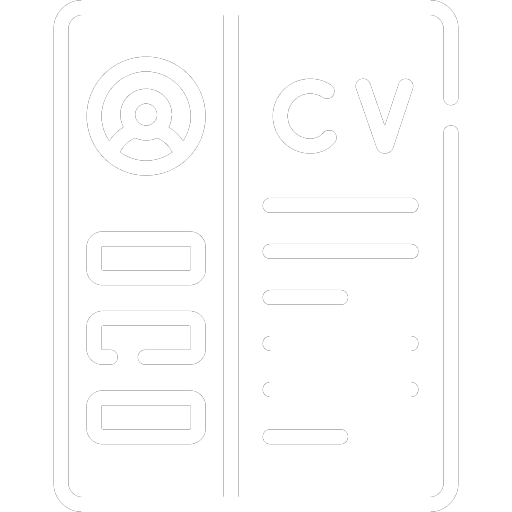
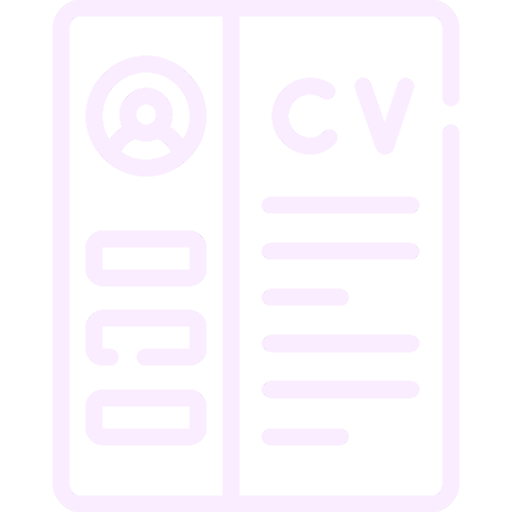
fixes
imgs aangepast. linkedin link toegevoegd bij contact. about me intro leesbaar gemaakt

Changed region(s): [[0.3438, 0.8125, 0.375, 0.8438], [0.3438, 0.6562, 0.375, 0.6875], [0.3438, 0.5, 0.375, 0.5312]]

diff --git a/index.html b/index.html
@@ -4,6 +4,7 @@
     <meta charset="UTF-8" />
     <meta name="viewport" content="width=device-width, initial-scale=1.0" />
     <link rel="stylesheet" href="styles.css" />
+    <link rel="icon" type="image/x-icon" href="Images/favicon.png" />
     <link
       href="https://fonts.googleapis.com/css2?family=Lexend+Mega:wght@100..900&family=Lexend:wght@100..900&display=swap"
       rel="stylesheet"
@@ -12,27 +13,30 @@
       src="https://kit.fontawesome.com/ee0165a535.js"
       crossorigin="anonymous"
     ></script>
-    <title>CO</title>
+    <title>CO cv website</title>
   </head>
   <body>
+    <header>
+      <a href="#skillsH1"> Skills </a>
+      <a href="#portfolioH1">Portfolio </a>
+      <a href="#werkH1"> Werk ervaring </a>
+      <a href="#contactH1">
+        <button id="headerBtn" class="cvBtn">Contact</button>
+      </a>
+    </header>
+
     <div id="aboutme">
       <img id="profilePic" src="Images/profilePic.png" alt="profile picture" />
       <h1 id="name">Chloë Ongolesono</h1>
       <h2 id="title">Software developer</h2>
       <p id="aboutmeP">
-        Hey, ik ben Chloë en ik ben een tweedejaars software development student
-        op het ROC van Flevoland. Voordat ik de opleiding software development
-        deed had ik geen ervaring met programmeren, maar ik heb wel altijd
-        interesse gehad in games en computers. Nu is het inmiddels een jaar
-        later en ben ik heel blij dat ik deze opleiding heb gekozen. Ik vind
-        programmeren heel leuk om te doen. Bugs oplossen en creatief kunnen zijn
-        met de front-end design zijn maar twee van de vele punten dat mij
-        aantrekken. Ik heb al ervaring met Java, Html/Css, Javascript, mySql
-        Database en Php, maar ik ben erg leergierig om nieuwe programmeertalen
-        te leren! Ik ben aan het studeren om een fullstack web-developer worden.
-        Momenteel ben ik opzoek naar een leuke stage waar ik mijn programmeer
-        skills kan verbeteren en waar ik ervaring kan opdoen als toekomstige
-        fullstack developer.
+        Hey, ik ben Chloë en ik ben een tweedejaars software development
+        student<br />
+        op het ROC van Flevoland. Bugs oplossen en creatief kunnen zijn met
+        <br />de front-end design zijn maar twee van de vele punten dat ik leuk
+        vind aan programmeren. <br />Ik heb ervaring met Java, Html/Css,
+        Javascript, mySql Database en Php <br />en ik ben aan het studeren om
+        een fullstack web-developer worden.
       </p>
       <a href="#skillsH1">
         <button id="skillsBtn" class="regBtn">Skills</button>
@@ -41,7 +45,7 @@
         href="https://1drv.ms/w/s!Ak1J6JQpUi98gb4w3pz-HXibG00uYw?e=fSDQe6"
         target="_blank"
       >
-        <button id="cvBtn">Open CV</button>
+        <button class="cvBtn">Open CV</button>
       </a>
     </div>
 
@@ -156,8 +160,8 @@
           >Boter kaas en eieren</a
         >
         <p>
-          Dit is mijn allereerste project. Voor mijn eindproject van de java
-          classroom op school heb ik boter kaas en eieren geprogrammeerd.
+          Dit is mijn allereerste project. Het is geprogrammeerd in Java
+          Processing.
         </p>
       </div>
 
@@ -171,11 +175,8 @@
           >Ani recs</a
         >
         <p>
-          Dit is een website met verschillende anime recommendations. Het heeft
-          ook een html form, maar nog zonder de back-end logica.<br />
-          Deze website was een eindopdracht voor de html en css classroom van
-          school, het ging hier met name om het responsive maken van de website
-          en een form toevoegen.
+          Dit is een html en css project. Volledig responsive en het heeft ook
+          een html form, maar nog zonder de back-end logica.
         </p>
       </div>
 
@@ -191,8 +192,6 @@
         <p>
           Een single player yahtzee game, geprogrammeerd in Javascript, html en
           css.
-          <br />
-          Dit project was een eindopdracht voor de JS classroom van school.
         </p>
       </div>
 
@@ -203,12 +202,11 @@
           href="https://1drv.ms/f/s!Ak1J6JQpUi98gb4ZTCmh5InZPiR4lQ?e=z3lpad"
           target="_blank"
           class="portfolioLink"
-          >Database</a
+          >Tools for ever</a
         >
         <p>
-          Voor de eindopdracht van school moest ik een database maken voor een
-          denkbeeldige winkel, Tools for ever. Een winkel met meerdere filialen,
-          die ook bestellingen kunnen doen en voorraden hebben.
+          Dit is een mySql database voor een denkbeeldige bedrijf, Tools for
+          ever.
         </p>
       </div>
 
@@ -222,10 +220,9 @@
           >Crud applicatie</a
         >
         <p>
-          Ik ben momenteel nog bezig met dit project. Ook dit project is een
-          eindopdracht voor school. Ik ben van plan om een soort twitter CRUD
-          applicatie te maken met een log in pagina. Tot nu toe ben ik bezig met
-          het maken van posts.
+          Dit is een crud applicatie geprogrammeerd in php. Ik ben momenteel nog
+          bezig met dit project. Het einddoel is een twitter geïnspireerde
+          applicatie.
         </p>
       </div>
     </div>
@@ -288,10 +285,22 @@
         </a>
       </div>
       <div>
+        <img class="contactImg" src="Images/linkedin.png" />
+        <br />
+        <a
+          href="https://www.linkedin.com/in/chloë-ongolesono-4278b832b/"
+          target="_blank"
+        >
+          <button class="regBtn" style="background-color: #42284f">
+            LinkedIn
+          </button>
+        </a>
+      </div>
+      <div>
         <img class="contactImg" src="Images/email.png" />
         <br />
         <a href="mailto:c.ongolesono@gmail.com" target="_blank">
-          <button id="cvBtn">Stuur een mail!</button>
+          <button class="cvBtn">Stuur een mail!</button>
         </a>
       </div>
       <div>

diff --git a/styles.css b/styles.css
@@ -20,12 +20,46 @@ body {
   text-shadow: 3px 3px 6px #1b1b1b;
 }
 
+header {
+  display: flex;
+  justify-content: flex-end;
+  align-items: center;
+  gap: 20px;
+  padding: 20px;
+}
+
+header > a {
+  font-family: "Lexend Mega";
+  color: #faedff;
+  text-decoration: none;
+  padding: 10px;
+}
+
+header > a:hover {
+  color: #e5c8f1;
+}
+
 @media (max-width: 680px) {
   #name,
   #title,
   p {
     text-align: center !important;
   }
+
+  header {
+    align-items: flex-start;
+    gap: 0;
+    padding: 0;
+  }
+
+  header > a {
+    font-size: 13px;
+  }
+
+  #aboutmeP {
+    line-height: 0;
+  }
+
   p {
     margin-left: 0;
     margin-right: 0;
@@ -64,11 +98,20 @@ body {
   #contactHeader {
     margin-top: 20vh;
   }
+
+  .portfolioItem > p {
+    line-height: 0;
+  }
 }
 
 /* about me styling */
 #aboutme {
   height: 100vh;
+}
+
+#aboutmeP,
+.skillP {
+  line-height: 35px;
 }
 
 #name,
@@ -120,7 +163,7 @@ h2 {
   box-shadow: 5px 5px 7px #1b1b1b;
 }
 
-#cvBtn,
+.cvBtn,
 #skillsBtn,
 .regBtn {
   color: #fcf7ff;
@@ -140,12 +183,12 @@ h2 {
   margin-left: 53vw;
 }
 
-#cvBtn {
+.cvBtn {
   background-color: #ada6ea;
   border: none;
 }
 
-#cvBtn:hover {
+.cvBtn:hover {
   background-color: #8e85d1;
 }
 
@@ -191,6 +234,10 @@ h2 {
   padding: 20px;
   gap: 20px;
   height: 100vh;
+}
+
+.portfolioItem > p {
+  line-height: 25px;
 }
 
 .portfolioItem,
